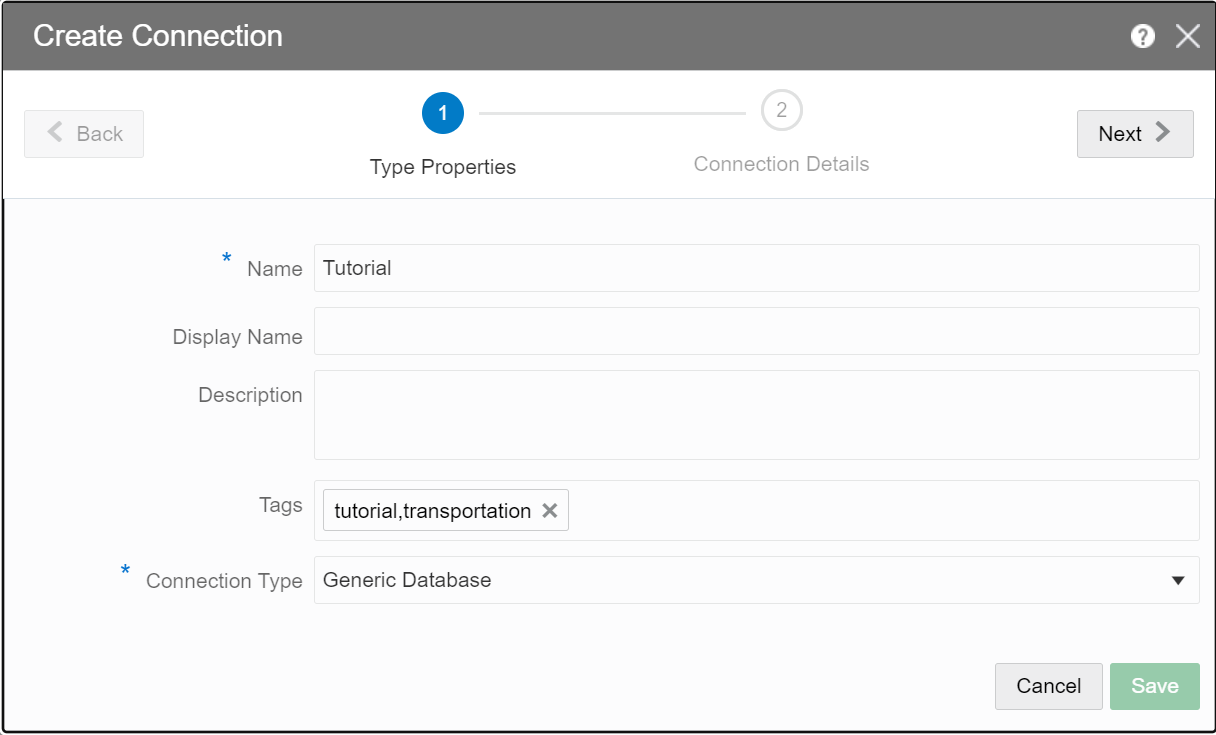
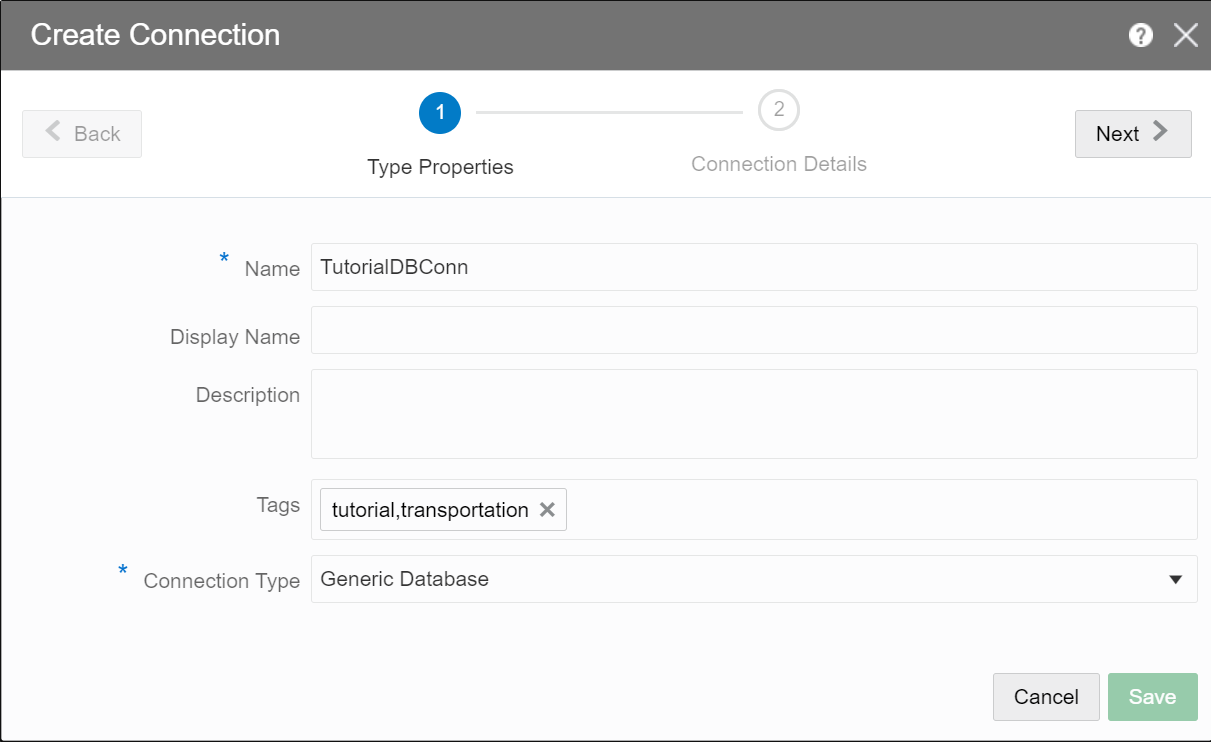
DB Conn and Ref added

diff --git a/stream-analytics-helloworld-pipeline/ggsa-mt-create-arti/ggsa-mt-create-arti.md b/stream-analytics-helloworld-pipeline/ggsa-mt-create-arti/ggsa-mt-create-arti.md
@@ -124,7 +124,7 @@ You should be already logged in after completing the lab *Initialize Environment
 2. Select **Generic Database** from the submenu, to display the **Create Connection** screen.
 
 3. On the **Type Properties** screen, enter the following details and click **Next**:
-    - In the **Name** field, enter **Tutorial DB**.
+    - In the **Name** field, enter **TutorialDB**.
     - In the **Display Name** field, enter a display name for the stream. If left blank, the **Name** field value is   copied.
     - In the **Tags** field, enter **tutorial, transportation**.
 
@@ -140,6 +140,25 @@ You should be already logged in after completing the lab *Initialize Environment
 5. Click **Test Connection**, and wait till the status is successful. Click **Save**.
 
 ## **Task 5:** Create a Database Reference
+
+1. On the Catalog page, **Create New Item**, and select **Reference**.
+
+2. Select **Database Table** from the submenu, to display the **Create Reference** screen.
+
+3. On the **Type Properties** screen, enter the following details and click **Next**:
+    - In the **Name** field, enter **TutorialDBREf**.
+    - In the **Display Name** field, enter a display name for the stream. If left blank, the **Name** field value is   copied.
+    - In the **Tags** field, enter **tutorial, transportation**.
+
+4. On the **Source Details** page, select the **TutorialDBConn** connection that you created earlier, and click **Next**.
+
+![Selecting a Database Connection](./images/DBRefSourceDetails.PNG "")
+
+5. On the **Shape** page, select **driver_details** from the **Shape Name** drop-down. Click **Save**.
+
+![Selecting a Database Table](./images/DBRefShape.PNG "")
+
+
 ## Learn More
 
 * [Transform and Analyze Data Streams](https://docs.oracle.com/en/middleware/fusion-middleware/osa/19.1/using/creating-pipeline-transform-and-analyze-data-streams.html#GUID-9DB9B57A-1095-4557-ACB9-816A696EB121)

diff --git a/stream-analytics-helloworld-pipeline/ggsa-mt-build-pplne/ggsa-mt-build-pplne.md b/stream-analytics-helloworld-pipeline/ggsa-mt-build-pplne/ggsa-mt-build-pplne.md
@@ -18,7 +18,26 @@ This Lab assumes you have:
 -
 
 ## **Task 1:** Create a Pipeline
+
+1. On the Catalog page, **Create New Item**, and select **Pipeline**.
+
+2. Select **Pipeline** from the submenu, to display the **Create Pipeline** screen
+
+3. On the Create Pipeline screen:
+
+  - In the **Name** field, enter **Tutorial**.
+  - In the **Description** field, enter **Tutorial: Vehicle Monitoring Pipeline**.
+  - In the **Tags** field, enter **transportation, tutorial**.
+  - From the **Stream** drop-down, select the **Tutorial** File stream that you created in [Lab 4: Create Artifacts for Your Stream Analytics Pipeline.] (#prev)
+
+  
+
+4. Click **Save**.
+The Tutorial pipeline is created and displayed. Listening for events begins, and then streaming events start to flow.
+
 ## **Task 2:** Create a Stage to Identify Vehicles Only in Atlanta
+
+
 ## **Task 3:** Create a Query Stage to Ignore Stationary Vehicles
 
 ## Learn More
